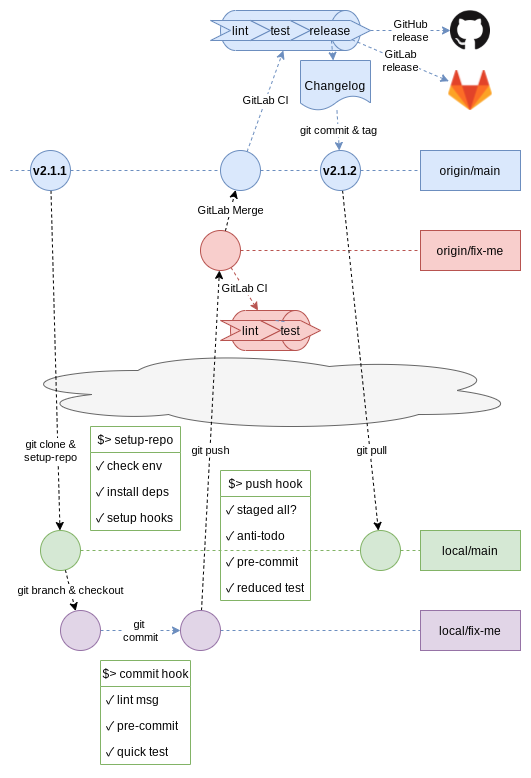
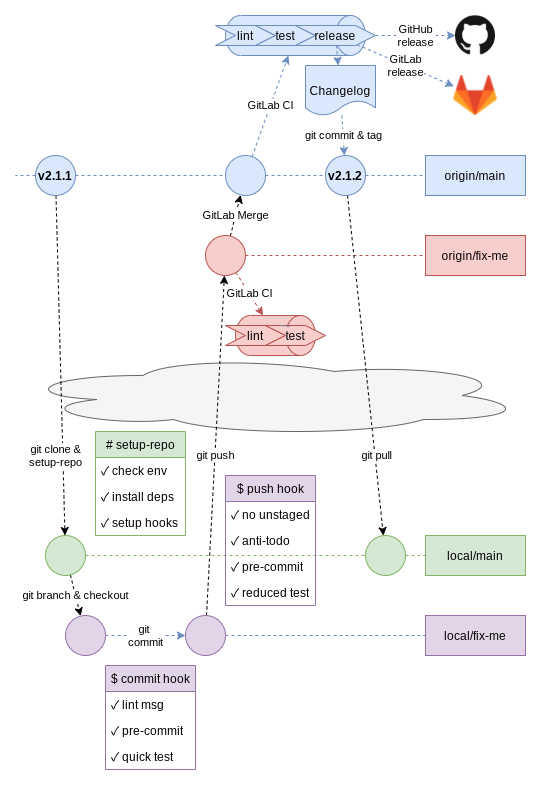
docs: add feature workflow to readme, add workflow template

diff --git a/README.md b/README.md
@@ -44,6 +44,7 @@ Strategies and tactics to achieve objectives:
 
 - [Features](#features)
   - [Templates](#templates)
+  - [Images](#images)
 - [Installation and Configuration](#installation-and-configuration)
   - [Local Environment](#local-environment)
   - [GitLab Project](#gitlab-project)
@@ -64,7 +65,11 @@ Strategies and tactics to achieve objectives:
 
 ## Features
 
-Example of a bugfix workflow:
+Feature workflow:
+
+![Example of a feature workflow](images/workflow-feature.png)
+
+Bugfix workflow:
 
 ![Example of a bugfix workflow](images/workflow-fix.png)
 
@@ -127,6 +132,12 @@ Templates for your convenience.
 - Licenses
   - [MIT License Template](templates/MIT-LICENSE)
   - [NO License Template](templates/NO-LICENSE)
+
+### Images
+
+- [Git Workflow Examples & Template](images/workflow.drawio)
+- [Example of a Feature Workflow](images/workflow-feature.png)
+- [Example of a Bugfix Workflow](images/workflow-fix.png)
 
 ## Installation and Configuration
 
